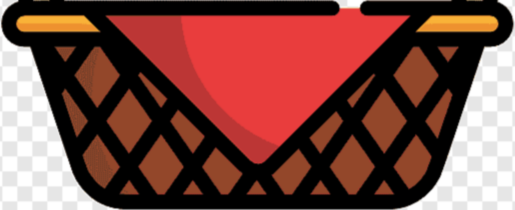
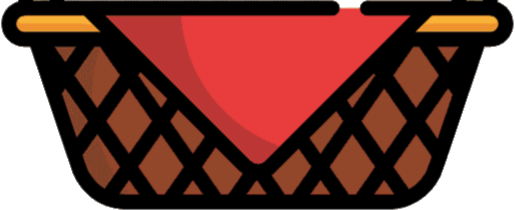
fix(catch-numbers): transparent basket, slower fall and tighter spacing
Strip checkerboard from basket PNG, slow fall speed, widen spawn interval with vertical gap guard, and shrink basket and number bubbles.

diff --git a/public/games/math/catch-numbers/config.js b/public/games/math/catch-numbers/config.js
@@ -25,15 +25,17 @@ window.GAME_CONFIG = {
     LIVES: 3,               // ชีวิตต่อรอบ (รับผิด/ปล่อยตก = -1)
 
     // ── ตะกร้า ──
-    BASKET_W: 0.22,         // ความกว้างตะกร้า (สัดส่วนจอ) — sprite ~515×210
-    CATCH_RADIUS: 0.10,     // รัศมีจับ (สัดส่วน)
+    BASKET_W: 0.17,         // ความกว้างตะกร้า (สัดส่วนจอ)
+    CATCH_RADIUS: 0.085,    // รัศมีจับ (สัดส่วน)
     BASKET_EDGE: 0.05,      // ขอบซ้าย-ขวาที่ clamp ตะกร้า (0..1)
 
     // ── Spawn / Fall ──
-    SPAWN_MS: 1500,         // ms ระหว่าง spawn รอบแรก
-    SPAWN_MS_DECAY: 100,    // ลดลงต่อรอบ
-    FALL_SPEED: 0.0014,     // ความเร็วตก (สัดส่วนจอ/เฟรม)
-    FALL_SPEED_INC: 0.0002, // เพิ่มต่อรอบ
+    SPAWN_MS: 2400,         // ms ระหว่าง spawn รอบแรก
+    SPAWN_MS_DECAY: 60,     // ลดลงต่อรอบ
+    SPAWN_MS_MIN: 1400,     // spawn เร็วสุดต่อรอบ
+    SPAWN_MIN_GAP_Y: 0.14,  // ระยะห่างแนวตั้งขั้นต่ำก่อน spawn ใหม่ (0..1)
+    FALL_SPEED: 0.00085,    // ความเร็วตก (สัดส่วนจอ/เฟรม)
+    FALL_SPEED_INC: 0.00008, // เพิ่มต่อรอบ
 
     // ── คะแนน ──
     SCORE_CATCH: 100,       // รับถูก

diff --git a/public/games/math/catch-numbers/game.js b/public/games/math/catch-numbers/game.js
@@ -289,7 +289,10 @@
         ST.ruleCardTimeout = setTimeout(function () { card.classList.remove('show'); }, 2200);
 
         // Timers
-        var spawnMs = Math.max(600, CFG.SPAWN_MS - ST.round * CFG.SPAWN_MS_DECAY);
+        var spawnMs = Math.max(
+            CFG.SPAWN_MS_MIN != null ? CFG.SPAWN_MS_MIN : 1400,
+            CFG.SPAWN_MS - ST.round * CFG.SPAWN_MS_DECAY
+        );
         ST.spawnTimer = setInterval(spawnItem, spawnMs);
         ST.sec = CFG.ROUND_SEC;
         ST.roundTimer = setInterval(tickRoundTimer, 1000);
@@ -303,8 +306,18 @@
         if (ST.sec <= 0) endRound(true);
     }
 
+    function spawnGapClear() {
+        var gap = CFG.SPAWN_MIN_GAP_Y != null ? CFG.SPAWN_MIN_GAP_Y : 0.14;
+        for (var i = 0; i < ST.items.length; i++) {
+            var it = ST.items[i];
+            if (!it.caught && !it.missed && it.y < gap) return false;
+        }
+        return true;
+    }
+
     function spawnItem() {
         if (!ST.roundActive) return;
+        if (!spawnGapClear()) return;
         var pool = DATA.numbers;
         var n = pool[Math.floor(qrand() * pool.length)];
         var speed = CFG.FALL_SPEED + ST.round * CFG.FALL_SPEED_INC;
@@ -335,7 +348,7 @@
     }
 
     function bubbleRadius() {
-        return Math.max(34, Math.min(W, H) * 0.048);
+        return Math.max(26, Math.min(W, H) * 0.036);
     }
 
     // ── Game loop (canvas) ──
